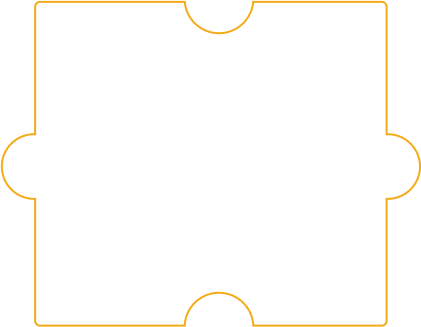
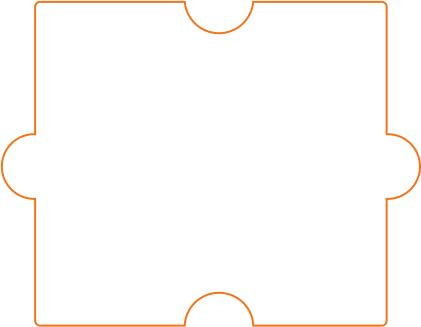
Переделка блоков программ

diff --git a/program_type3.html b/program_type3.html
@@ -585,9 +585,9 @@
 
 							<section class="program_type_head block">
 								<div class="data">
-									<h1 class="name"><span class="color1">Базовая</span> программа “Завтрак”</h1>
+									<h1 class="name"><span class="color3">Продвинутая</span> программа “Завтрак”</h1>
 
-									<div class="slogan color1">КОМФОРТНОЕ ПИЩЕВАРЕНИЕ - АКТИВНАЯ ЖИЗНЬ</div>
+									<div class="slogan color3">КОМФОРТНОЕ ПИЩЕВАРЕНИЕ - АКТИВНАЯ ЖИЗНЬ</div>
 
 									<div class="desc">«Аппетит к жизни» начинается с хорошего аппетита утром. Каким бы аспектом здоровья человека мы не занимались: будь то оптимальный вес, энергичность, иммунитет – в фокусе нашей работы поддержка пищеварения и полноценный рацион. Включение функциональных продуктов, богатых полноценным белком, клетчаткой, экстрактом алое, витаминами и минералами позитивно скажется на работе ЖКТ.</div>
 
@@ -601,20 +601,31 @@
 
 								<div class="types">
 									<div class="main">
-										<div class="type type1">
+										<div class="type type3">
 											<div class="head">
-												<div class="name">Базовая</div>
+												<div class="name">Продвинутая</div>
 
 												<div class="thumb">
-													<img data-src="images/tmp/program_types_thumb1.png" alt="" class="lozad">
+													<img data-src="images/tmp/program_types_thumb3.png" alt="" class="lozad">
 												</div>
 
-												<img src="images/bg_type1_hover.png" alt="" class="bg">
+												<img src="images/bg_type3_hover.png" alt="" class="bg">
 											</div>
 										</div>
 									</div>
 
 									<div class="other">
+										<a href="/" class="type type1">
+											<div class="name">Базовая</div>
+
+											<div class="thumb">
+												<img data-src="images/tmp/program_types_thumb1.png" alt="" class="lozad">
+											</div>
+
+											<img src="images/bg_type1_mini.png" alt="" class="bg">
+											<img src="images/bg_type1_hover_mini.png" alt="" class="bg">
+										</a>
+
 										<a href="/" class="type type2">
 											<div class="name">Расширенная</div>
 
@@ -624,17 +635,6 @@
 
 											<img src="images/bg_type2_mini.png" alt="" class="bg">
 											<img src="images/bg_type2_hover_mini.png" alt="" class="bg">
-										</a>
-
-										<a href="/" class="type type3">
-											<div class="name">Продвинутая</div>
-
-											<div class="thumb">
-												<img data-src="images/tmp/program_types_thumb3.png" alt="" class="lozad">
-											</div>
-
-											<img src="images/bg_type3_mini.png" alt="" class="bg">
-											<img src="images/bg_type3_hover_mini.png" alt="" class="bg">
 										</a>
 									</div>
 								</div>
@@ -647,25 +647,25 @@
 								</div>
 
 								<div class="row">
-									<div class="item color1">
+									<div class="item color3">
 										<div class="name">Для тонизирующего эффекта</div>
 
 										<div class="desc"><span>Травяной напиток</span> обеспечит источником энергии и пользу 6 фитокомпонентов: в составе экстракты чёрного и зелёного чая, мальвы, семян кардамона, порошок цветков гибискуса, кофеин.</div>
 									</div>
 
-									<div class="item color1">
+									<div class="item color3">
 										<div class="name">Для лучшей работы ЖКТ</div>
 
 										<div class="desc"><span>Растительный напиток Алоэ</span> поддержит естественные функции пищеварительной системы и поможет обеспечить водно-питьевой баланс. Сок алоэ способствует очищению, помогает восстанавливать процессы всасывания и усвоения пищи.</div>
 									</div>
 
-									<div class="item color1">
+									<div class="item color3">
 										<div class="name">Умный перекус без вреда для фигуры</div>
 
 										<div class="desc"><span>Протеиновый батончик</span> поможет контролировать чувство голода. Содержит 10 г концентрата молочного белка и всего 140 ккал на порцию – меньше, чем в обычных шоколадных батончиках. Выберите один из трех вкусов.</div>
 									</div>
 
-									<div class="item color1">
+									<div class="item color3">
 										<div class="name">Замените высококалорийный десерт полезным</div>
 
 										<div class="desc"><span>Протеиновые мини-батончики.</span> Полезная альтернатива высококалорийным десертам и прекрасный выбор для чаепития. Содержит 8 г белка в порции (2 шт.) Компактный формат позволяет побаловать не только себя, но и близких!</div>

diff --git a/program_type2.html b/program_type2.html
@@ -585,9 +585,9 @@
 
 							<section class="program_type_head block">
 								<div class="data">
-									<h1 class="name"><span class="color1">Базовая</span> программа “Завтрак”</h1>
+									<h1 class="name"><span class="color2">Расширенная</span> программа “Завтрак”</h1>
 
-									<div class="slogan color1">КОМФОРТНОЕ ПИЩЕВАРЕНИЕ - АКТИВНАЯ ЖИЗНЬ</div>
+									<div class="slogan color2">КОМФОРТНОЕ ПИЩЕВАРЕНИЕ - АКТИВНАЯ ЖИЗНЬ</div>
 
 									<div class="desc">«Аппетит к жизни» начинается с хорошего аппетита утром. Каким бы аспектом здоровья человека мы не занимались: будь то оптимальный вес, энергичность, иммунитет – в фокусе нашей работы поддержка пищеварения и полноценный рацион. Включение функциональных продуктов, богатых полноценным белком, клетчаткой, экстрактом алое, витаминами и минералами позитивно скажется на работе ЖКТ.</div>
 
@@ -601,29 +601,29 @@
 
 								<div class="types">
 									<div class="main">
-										<div class="type type1">
+										<div class="type type2">
 											<div class="head">
-												<div class="name">Базовая</div>
+												<div class="name">Расширенная</div>
 
 												<div class="thumb">
-													<img data-src="images/tmp/program_types_thumb1.png" alt="" class="lozad">
+													<img data-src="images/tmp/program_types_thumb2.png" alt="" class="lozad">
 												</div>
 
-												<img src="images/bg_type1_hover.png" alt="" class="bg">
+												<img src="images/bg_type2_hover.png" alt="" class="bg">
 											</div>
 										</div>
 									</div>
 
 									<div class="other">
-										<a href="/" class="type type2">
-											<div class="name">Расширенная</div>
+										<a href="/" class="type type1">
+											<div class="name">Базовая</div>
 
 											<div class="thumb">
-												<img data-src="images/tmp/program_types_thumb2.png" alt="" class="lozad">
+												<img data-src="images/tmp/program_types_thumb1.png" alt="" class="lozad">
 											</div>
 
-											<img src="images/bg_type2_mini.png" alt="" class="bg">
-											<img src="images/bg_type2_hover_mini.png" alt="" class="bg">
+											<img src="images/bg_type1_mini.png" alt="" class="bg">
+											<img src="images/bg_type1_hover_mini.png" alt="" class="bg">
 										</a>
 
 										<a href="/" class="type type3">
@@ -647,25 +647,25 @@
 								</div>
 
 								<div class="row">
-									<div class="item color1">
+									<div class="item color2">
 										<div class="name">Для тонизирующего эффекта</div>
 
 										<div class="desc"><span>Травяной напиток</span> обеспечит источником энергии и пользу 6 фитокомпонентов: в составе экстракты чёрного и зелёного чая, мальвы, семян кардамона, порошок цветков гибискуса, кофеин.</div>
 									</div>
 
-									<div class="item color1">
+									<div class="item color2">
 										<div class="name">Для лучшей работы ЖКТ</div>
 
 										<div class="desc"><span>Растительный напиток Алоэ</span> поддержит естественные функции пищеварительной системы и поможет обеспечить водно-питьевой баланс. Сок алоэ способствует очищению, помогает восстанавливать процессы всасывания и усвоения пищи.</div>
 									</div>
 
-									<div class="item color1">
+									<div class="item color2">
 										<div class="name">Умный перекус без вреда для фигуры</div>
 
 										<div class="desc"><span>Протеиновый батончик</span> поможет контролировать чувство голода. Содержит 10 г концентрата молочного белка и всего 140 ккал на порцию – меньше, чем в обычных шоколадных батончиках. Выберите один из трех вкусов.</div>
 									</div>
 
-									<div class="item color1">
+									<div class="item color2">
 										<div class="name">Замените высококалорийный десерт полезным</div>
 
 										<div class="desc"><span>Протеиновые мини-батончики.</span> Полезная альтернатива высококалорийным десертам и прекрасный выбор для чаепития. Содержит 8 г белка в порции (2 шт.) Компактный формат позволяет побаловать не только себя, но и близких!</div>

diff --git a/css/styles.css b/css/styles.css
@@ -6000,12 +6000,12 @@ aside .last_articles .items > * > a.active
 
 .program_types .type1 .head .name
 {
-    border-color: #fa2121;
+    border-color: #f3ab19;
 }
 
 .program_types .type2 .head .name
 {
-    border-color: #f3ab19;
+    border-color: #f37519;
 }
 
 .program_types .type3 .head .name
@@ -6112,12 +6112,17 @@ aside .last_articles .items > * > a.active
 
 .program_type_head .data .color1
 {
-    color: #fa2121;
+    color: #f3ab19;
 }
 
 .program_type_head .data .color2
 {
-    color: #f3ab19;
+    color: #f37519;
+}
+
+.program_type_head .data .color3
+{
+    color: #2aa3ef;
 }
 
 
@@ -6254,12 +6259,12 @@ aside .last_articles .items > * > a.active
 
 .program_type_head .types .type1 .name
 {
-    border-color: #fa2121;
+    border-color: #f3ab19;
 }
 
 .program_type_head .types .type2 .name
 {
-    border-color: #f3ab19;
+    border-color: #f37519;
 }
 
 .program_type_head .types .type3 .name
@@ -6311,82 +6316,36 @@ aside .last_articles .items > * > a.active
     z-index: -1;
 
     display: block;
+
+    filter: drop-shadow(0 0 23px rgba(0, 0, 0, .49));
 }
 
 
 .program_type_head .types .main .type1 .bg
 {
-    top: -29px;
-    left: 0;
-
-    width: 339px;
-    height: 373px;
-}
-
-.program_type_head .types .main .type1 .bg + .bg
-{
     top: -37px;
     left: -7px;
-
-    display: none;
 
     width: 352px;
     height: 389px;
 }
-
 
 .program_type_head .types .main .type2 .bg
 {
-    top: -29px;
-    left: 0;
-
-    width: 339px;
-    height: 373px;
-}
-
-.program_type_head .types .main .type2 .bg + .bg
-{
-    top: -37px;
-    left: -7px;
-
-    display: none;
-
-    width: 352px;
-    height: 389px;
-}
-
-
-.program_type_head .types .main .type3 .bg
-{
-    top: 0;
-    left: -32px;
-
-    width: 402px;
-    height: 312px;
-}
-
-.program_type_head .types .main .type3 .bg + .bg
-{
-    top: -7px;
+    top: -8px;
     left: -42px;
-
-    display: none;
 
     width: 421px;
     height: 327px;
 }
 
-
-.program_type_head .types .main .type .bg
+.program_type_head .types .main .type3 .bg
 {
-    display: none;
-}
+    top: -36px;
+    left: -7px;
 
-.program_type_head .types .main .type .bg + .bg
-{
-    display: block;
-
-    filter: drop-shadow(0 0 23px rgba(0, 0, 0, .49));
+    width: 353px;
+    height: 389px;
 }
 
 
@@ -6560,7 +6519,6 @@ aside .last_articles .items > * > a.active
 
 .program_benefits .item:before
 {
-    color: #fa2121;
     font-size: 40px;
     font-weight: 700;
     line-height: 56px;
@@ -6573,9 +6531,19 @@ aside .last_articles .items > * > a.active
     counter-increment: item;
 }
 
-.program_benefits .item.color2:before
+.program_benefits .item.color1:before
 {
     color: #f3ab19;
+}
+
+.program_benefits .item.color2:before
+{
+    color: #f37519;
+}
+
+.program_benefits .item.color3:before
+{
+    color: #2aa3ef;
 }
 
 

diff --git a/demo_links.html b/demo_links.html
@@ -153,6 +153,8 @@
 				<li><a href="/product.html" target="_blank">Страница товара</a></li>
 				<li><a href="/program.html" target="_blank">Страница программы</a></li>
 				<li><a href="/program_type.html" target="_blank">Тип программы</a></li>
+                <li><a href="/program_type2.html" target="_blank">Тип программы 2</a></li>
+                <li><a href="/program_type3.html" target="_blank">Тип программы 3</a></li>
 				<li><a href="/cart.html" target="_blank">Корзина</a></li>
 				<li><a href="/cart2.html" target="_blank">Корзина 2</a></li>
 				<li><a href="/cart3.html" target="_blank">Корзина 3</a></li>
@@ -161,6 +163,8 @@
 				<li><a href="/price_list.html" target="_blank">Прайс лист</a></li>
 				<li><a href="/text_page.html" target="_blank">Текстовая стрнаица</a></li>
 				<li><a href="/contacts.html" target="_blank">Контакты</a></li>
+                <li><a href="/article.html" target="_blank">Страница статьи</a></li>
+                <li><a href="/articleы.html" target="_blank">Список статей</a></li>
 			</ol>
 		</div>
 	</body>
